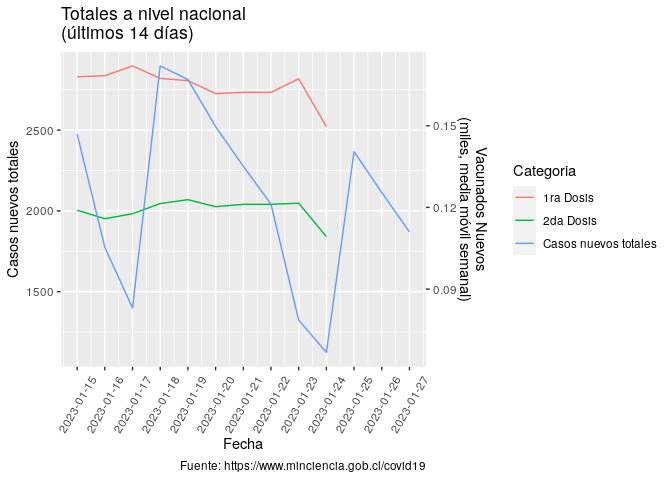
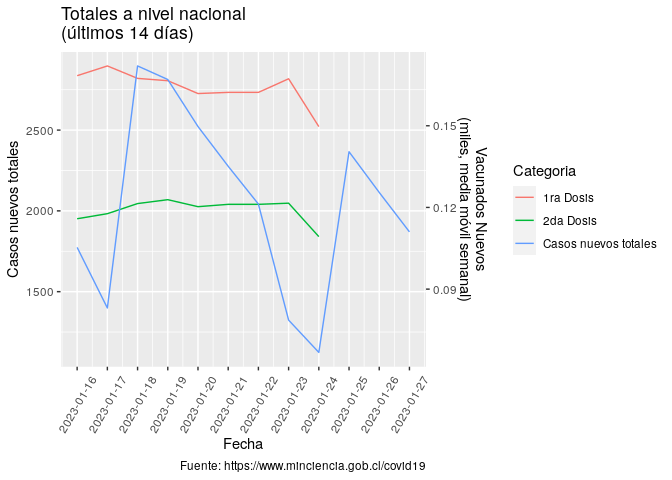
Re-build Rmarkdown files

diff --git a/README.md b/README.md
@@ -3,7 +3,7 @@
 
 Ejemplo de uso de total\_casos de COVID recopilados por el Ministerio de
 Ciencia de Chile <https://www.minciencia.gob.cl/covid19>. Última
-actualización: 2023-01-28
+actualización: 2023-01-29
 
 ## Visualización desde el comienzo de la pandemia
 
